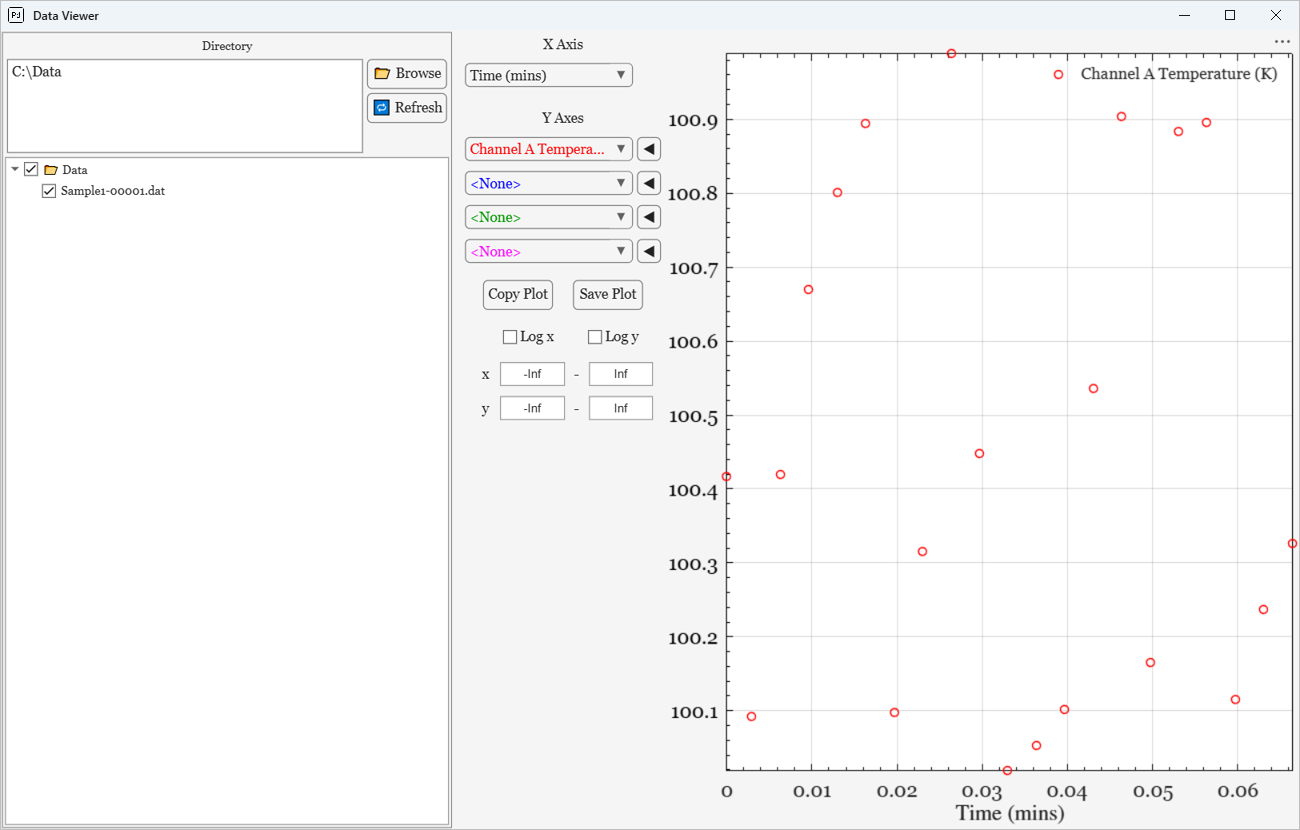
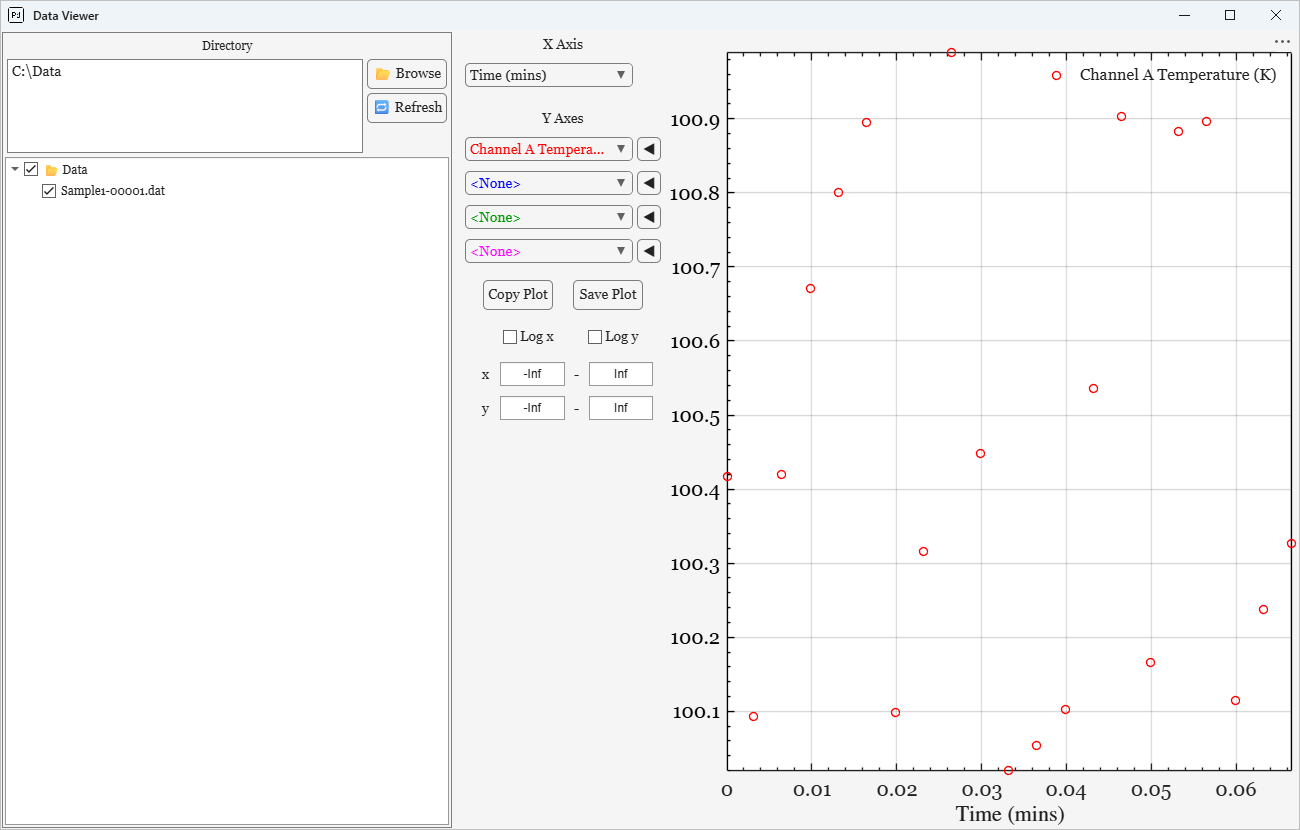
Updated screenshot task now Ohms are Omega symbol, fix. Updated screenshots

diff --git a/Tools/DocScreenshots/TakeDocScreenshots.m b/Tools/DocScreenshots/TakeDocScreenshots.m
@@ -91,7 +91,7 @@ WritePreset(work, "Screenshots", struct( ...
                      struct("Type", "Keithley2000", "Properties", struct("Connection_Type", "Debug"))}}, ...
     "PlottingTabs", {{struct("Row", 2, "Col", 1, ...
         "DefaultXAxis", {{"Time (mins)", "Channel A Temperature (K)"}}, ...
-        "DefaultYAxes", {{{"Channel A Temperature (K)", "Channel B Temperature (K)"}, {"K2000_1 - Resistance_Ohms"}}})}}));
+        "DefaultYAxes", {{{"Channel A Temperature (K)", "Channel B Temperature (K)"}, {"K2000_1 - Resistance_Ω"}}})}}));
 [pd, app] = LaunchPalladium(work, Preset="Screenshots");
 pd.Start();
 pause(5);
